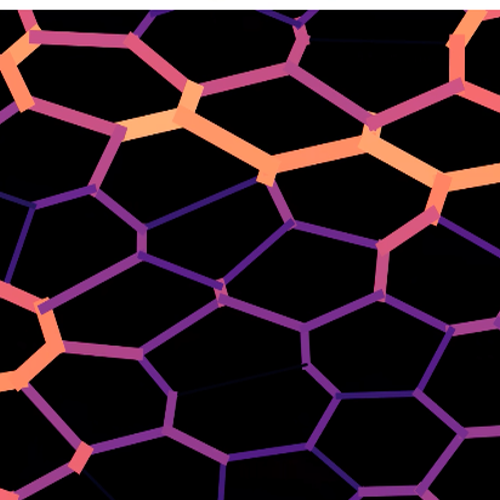
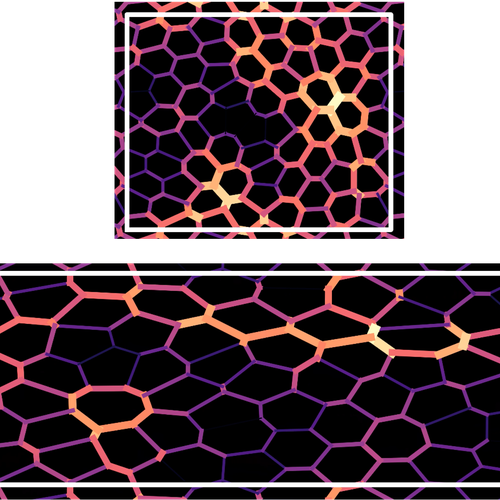
Add files via upload
edits to research page

diff --git a/research.html b/research.html
@@ -17,92 +17,82 @@
   <h1 class="page-title">Research</h1>
   <p class="lede intro-center">Research in the Manning group follows two interconnected thrusts: collective behavior in biological tissues and deformation in disordered solids. See below for details on each sub-topic.</p>
 
-  <div class="section-block has-image">
-    <img class="project-image" src="assets/img/research/organogenesis.png" alt="Simulation of Kupffer's vesicle showing anterior (f_a) and posterior (f_p) drag forces on cells during organogenesis">
-    <div class="section-text">
-    <h2>Organogenesis during development</h2>
-    <ul>
-      <li>Dynamic forces generated by tissue drag</li>
-      <li>Interfering with myosin via an optically released drug</li>
-    </ul>
-    <p class="personnel"><strong>Personnel:</strong> Rajendra Singh Negi, Raj Kumar Manna, Jeff Amack Lab (SUNY Upstate), Heidi Hehnly Lab (SU)</p>
-    </div>
-  </div>
+  <div class="research-grid">
 
-  <div class="section-block has-image">
-    <img class="project-image" src="assets/img/research/dissipation-flow.png" alt="Simulation of active rod-shaped particles packed together, with red indicating polarity or force direction">
-    <div class="section-text">
-    <h2>Predicting dissipation and flow in non-Hamiltonian active disordered solids</h2>
-    <ul>
-      <li>Systems with pressure gradients</li>
-      <li>Active rods that cannot be mapped to a Hamiltonian system</li>
-    </ul>
-    <p class="personnel"><strong>Personnel:</strong> Tyler Hain, Julia Giannini, Adil Ghaznavi, Edan Lerner (U. Amsterdam)</p>
+    <div class="project-card">
+      <img class="project-image" src="assets/img/research/organogenesis.png" alt="Simulation of Kupffer's vesicle showing anterior (f_a) and posterior (f_p) drag forces on cells during organogenesis">
+      <h3>Organogenesis during development</h3>
+      <ul>
+        <li>Dynamic forces generated by tissue drag</li>
+        <li>Interfering with myosin via an optically released drug</li>
+      </ul>
+      <p class="personnel"><strong>Personnel:</strong> Rajendra Singh Negi, Raj Kumar Manna, Jeff Amack Lab (SUNY Upstate), Heidi Hehnly Lab (SU)</p>
     </div>
-  </div>
 
-  <div class="section-block has-image">
-    <img class="project-image" src="assets/img/research/placode.png" alt="3D vertex model showing a placode (red, invaginating cell) forming within a stratified epithelial tissue">
-    <div class="section-text">
-    <h2>Placode formation and homeostasis in stratified epithelia</h2>
-    <ul>
-      <li>Placode formation</li>
-      <li>Homeostasis and delamination</li>
-    </ul>
-    <p class="personnel"><strong>Personnel:</strong> Elizabeth Lawson-Keister, Somiealo Azote, Sara Wickstrom Lab (Muenster), Carien Niessen Lab (Cologne)</p>
+    <div class="project-card">
+      <img class="project-image" src="assets/img/research/dissipation-flow.png" alt="Simulation of active rod-shaped particles packed together, with red indicating polarity or force direction">
+      <h3>Predicting dissipation and flow in non-Hamiltonian active disordered solids</h3>
+      <ul>
+        <li>Systems with pressure gradients</li>
+        <li>Active rods that cannot be mapped to a Hamiltonian system</li>
+      </ul>
+      <p class="personnel"><strong>Personnel:</strong> Tyler Hain, Julia Giannini, Adil Ghaznavi, Edan Lerner (U. Amsterdam)</p>
     </div>
-  </div>
 
-  <div class="section-block has-image">
-    <img class="project-image" src="assets/img/research/yielding.png" alt="Simulation of a sheared amorphous packing showing a localized shear band of non-affine displacement">
-    <div class="section-text">
-    <h2>Yielding in glassy and active matter</h2>
-    <ul>
-      <li>Is the yielding transition brittle in dense active matter?</li>
-      <li>Structural elasto-plastic models for yielding</li>
-      <li>Spatio-temporal dynamics of avalanches in particle-based and elasto-plastic models</li>
-      <li>Structural indicators as a function of packing fraction</li>
-    </ul>
-    <p class="personnel"><strong>Personnel:</strong> Adil Ghaznavi, Cam Dennis, David Richard</p>
+    <div class="project-card">
+      <img class="project-image" src="assets/img/research/placode.png" alt="3D vertex model showing a placode (red, invaginating cell) forming within a stratified epithelial tissue">
+      <h3>Placode formation and homeostasis in stratified epithelia</h3>
+      <ul>
+        <li>Placode formation</li>
+        <li>Homeostasis and delamination</li>
+      </ul>
+      <p class="personnel"><strong>Personnel:</strong> Elizabeth Lawson-Keister, Somiealo Azote, Sara Wickstrom Lab (Muenster), Carien Niessen Lab (Cologne)</p>
     </div>
-  </div>
 
-  <div class="section-block has-image">
-    <img class="project-image" src="assets/img/research/mesenchyme.png" alt="Network model of stellate mesenchymal cells showing sparse, star-shaped connectivity with large gaps between cells">
-    <div class="section-text">
-    <h2>Emergent mechanics in tissues composed of stellate mesenchymal cells</h2>
-    <ul>
-      <li>Developing new models for tissues with star-like cell shapes and large gaps between cells</li>
-      <li>A new, bioinspired type of active metamaterial: fluid under tension</li>
-    </ul>
-    <p class="personnel"><strong>Personnel:</strong> Alex Grigas, Ale Mongera (UCL)</p>
+    <div class="project-card">
+      <img class="project-image" src="assets/img/research/yielding.png" alt="Simulation of a sheared amorphous packing showing a localized shear band of non-affine displacement">
+      <h3>Yielding in glassy and active matter</h3>
+      <ul>
+        <li>Is the yielding transition brittle in dense active matter?</li>
+        <li>Structural elasto-plastic models for yielding</li>
+        <li>Spatio-temporal dynamics of avalanches in particle-based and elasto-plastic models</li>
+        <li>Structural indicators as a function of packing fraction</li>
+      </ul>
+      <p class="personnel"><strong>Personnel:</strong> Adil Ghaznavi, Cam Dennis, David Richard</p>
     </div>
-  </div>
 
-  <div class="section-block has-image">
-    <img class="project-image" src="assets/img/research/rigidity.png" alt="Sphere showing the critical stress manifold in three-dimensional stress space, separating rigid (orange) and floppy (purple) regions">
-    <div class="section-text">
-    <h2>Characterizing and designing second-order rigid materials</h2>
-    <ul>
-      <li>Designing mechanical metamaterials by sculpting the critical manifold in fiber networks</li>
-      <li>Parameterizing the critical manifold of vertex models for biological tissues</li>
-      <li>Making real mechanical networks with torsional springs</li>
-    </ul>
-    <p class="personnel"><strong>Personnel:</strong> Tyler Hain, Kelly Aspinwall, Chris Santangelo (SU)</p>
+    <div class="project-card">
+      <img class="project-image" src="assets/img/research/mesenchyme.png" alt="Network model of stellate mesenchymal cells showing sparse, star-shaped connectivity with large gaps between cells">
+      <h3>Emergent mechanics in tissues composed of stellate mesenchymal cells</h3>
+      <ul>
+        <li>Developing new models for tissues with star-like cell shapes and large gaps between cells</li>
+        <li>A new, bioinspired type of active metamaterial: fluid under tension</li>
+      </ul>
+      <p class="personnel"><strong>Personnel:</strong> Alex Grigas, Ale Mongera (UCL)</p>
     </div>
-  </div>
 
-  <div class="section-block has-image">
-    <img class="project-image" src="assets/img/research/physical-learning.png" alt="Vertex model tissue network with edge tensions colored by strength, showing localized high-tension pathways">
-    <div class="section-text">
-    <h2>Physical learning in biological tissues</h2>
-    <ul>
-      <li>Can we use physical learning to fluidize a tissue?</li>
-      <li>Comparing proposed mechanisms for germband extension in Drosophila using a physical learning framework</li>
-      <li>Cell differentiation patterning via surface receptors (Notch-Delta)</li>
-    </ul>
-    <p class="personnel"><strong>Personnel:</strong> Sadjad Arzash, Kelly Aspinwall, Andrea Liu (UPenn)</p>
+    <div class="project-card">
+      <img class="project-image" src="assets/img/research/rigidity.png" alt="Sphere showing the critical stress manifold in three-dimensional stress space, separating rigid (orange) and floppy (purple) regions">
+      <h3>Characterizing and designing second-order rigid materials</h3>
+      <ul>
+        <li>Designing mechanical metamaterials by sculpting the critical manifold in fiber networks</li>
+        <li>Parameterizing the critical manifold of vertex models for biological tissues</li>
+        <li>Making real mechanical networks with torsional springs</li>
+      </ul>
+      <p class="personnel"><strong>Personnel:</strong> Tyler Hain, Kelly Aspinwall, Chris Santangelo (SU)</p>
     </div>
+
+    <div class="project-card">
+      <img class="project-image" src="assets/img/research/physical-learning.png" alt="Vertex model tissue network with edge tensions colored by strength, showing localized high-tension pathways">
+      <h3>Physical learning in biological tissues</h3>
+      <ul>
+        <li>Can we use physical learning to fluidize a tissue?</li>
+        <li>Comparing proposed mechanisms for germband extension in Drosophila using a physical learning framework</li>
+        <li>Cell differentiation patterning via surface receptors (Notch-Delta)</li>
+      </ul>
+      <p class="personnel"><strong>Personnel:</strong> Sadjad Arzash, Kelly Aspinwall, Andrea Liu (UPenn)</p>
+    </div>
+
   </div>
 </main>
 

diff --git a/assets/css/style.css b/assets/css/style.css
@@ -326,30 +326,40 @@ footer.site-footer {
 /* Group photo captions */
 .photo-year { font-weight: 600; margin-top: 1.5rem; }
 
-/* Research page project images */
+/* Research grid (same layout pattern as People grid) */
+.research-grid {
+  display: grid;
+  grid-template-columns: repeat(auto-fill, minmax(260px, 1fr));
+  gap: 1.75rem;
+  margin: 1.5rem 0 2.5rem 0;
+}
+
+.project-card {
+  display: flex;
+  flex-direction: column;
+  padding-bottom: 1.75rem;
+  border-bottom: 1px solid var(--rule);
+}
+
+.project-card h3 {
+  margin-top: 0;
+  margin-bottom: 0.5rem;
+  font-size: 1.15rem;
+}
+
+.project-card ul {
+  margin-top: 0;
+}
+
+/* Project images */
 .project-image {
   display: block;
-  width: 160px;
-  height: 160px;
+  width: 120px;
+  height: 120px;
   border-radius: 50%;
   object-fit: cover;
-  margin: 0 auto 1rem auto;
+  margin: 0 0 0.75rem 0;
   background: #ddd;
-}
-@media (min-width: 620px) {
-  .section-block.has-image {
-    display: flex;
-    align-items: flex-start;
-    gap: 1.5rem;
-  }
-  .section-block.has-image .project-image {
-    flex: 0 0 auto;
-    margin: 0.25rem 0 0 0;
-  }
-  .section-block.has-image .section-text {
-    flex: 1 1 auto;
-    min-width: 0;
-  }
 }
 
 /* PDF viewer (CV page) */
